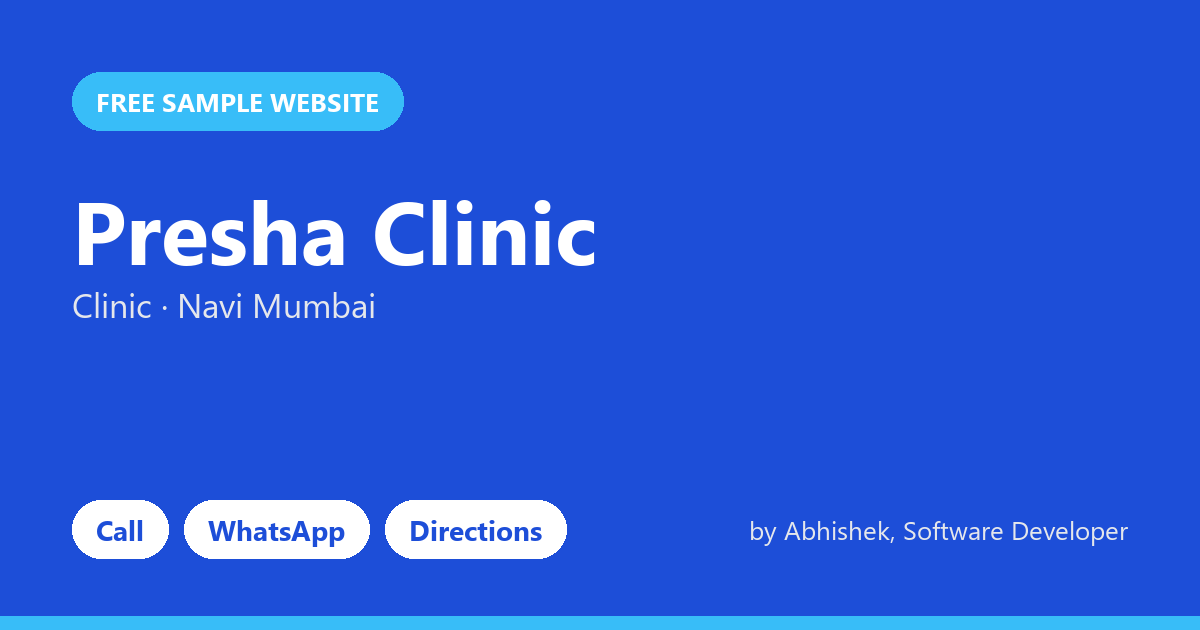
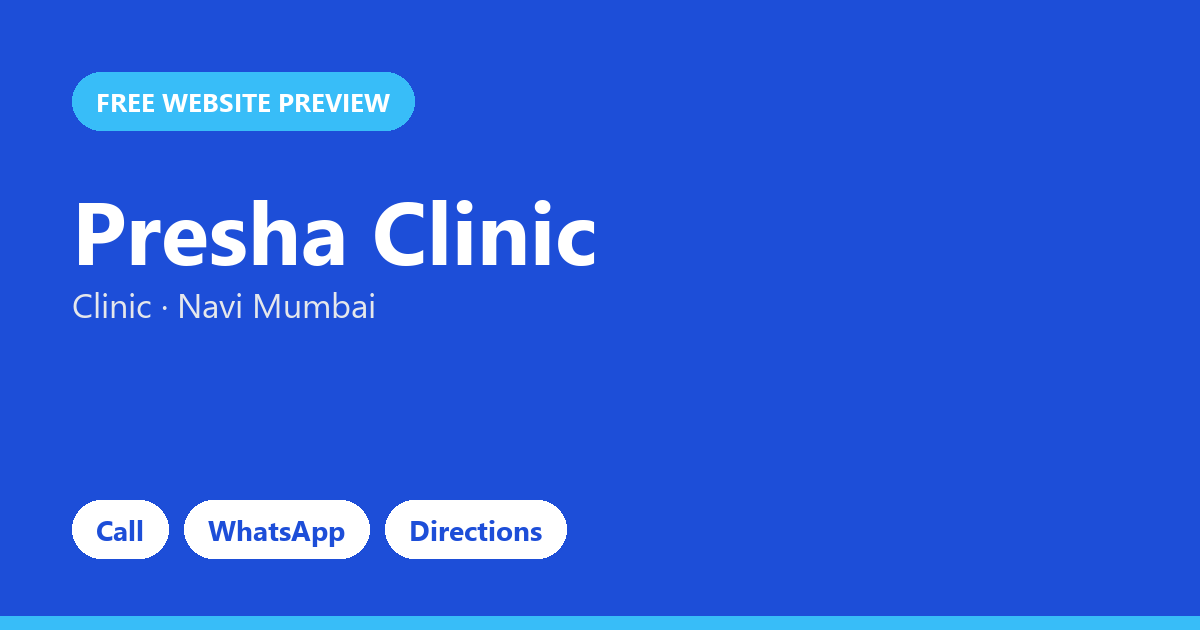
Previews: drop price and personal name (96-100 of 139)

Changed region(s): [[0.6167, 0.8143, 0.925, 0.8746], [0.1233, 0.1206, 0.37, 0.2111]]

diff --git a/p/prima-dental-saltlake-kolkata-6708/index.html b/p/prima-dental-saltlake-kolkata-6708/index.html
@@ -6,8 +6,8 @@
 <title>Prima Dental Saltlake | Dental clinic in Kolkata</title>
 <meta name="description" content="Gentle, modern dental care for the whole family. Book your visit in under a minute.">
 <meta property="og:type" content="website">
-<meta property="og:title" content="Prima Dental Saltlake · Free sample website">
-<meta property="og:description" content="Made by Abhishek, Software Developer. Call, WhatsApp and directions in one tap.">
+<meta property="og:title" content="Prima Dental Saltlake · Free website preview">
+<meta property="og:description" content="Call, WhatsApp and directions in one tap.">
 <meta property="og:url" content="https://roguestar03.github.io/p/prima-dental-saltlake-kolkata-6708/">
 <meta property="og:image" content="https://roguestar03.github.io/p/prima-dental-saltlake-kolkata-6708/og.png">
 <meta property="og:image:width" content="1200">
@@ -167,7 +167,7 @@ footer{padding:40px 0 110px;border-top:1px solid var(--line);font-size:14px;colo
 </style>
 </head>
 <body>
-<div class="pv">Sample website made for <b>Prima Dental Saltlake</b> by <b>Abhishek</b>. Not the official website yet. <b>Like it?</b> Make it yours for ₹1,999. Contact: <a href="mailto:abhishekkayasth87@gmail.com">abhishekkayasth87@gmail.com</a> · <a href="https://www.linkedin.com/in/abhishek-kayasth-050250239/" target="_blank" rel="noopener">LinkedIn</a></div>
+<div class="pv">Free website preview for <b>Prima Dental Saltlake</b>. Not the official website yet. <b>Like it?</b> Just reply to our message. Contact: <a href="mailto:abhishekkayasth87@gmail.com">abhishekkayasth87@gmail.com</a> · <a href="https://www.linkedin.com/in/abhishek-kayasth-050250239/" target="_blank" rel="noopener">LinkedIn</a></div>
 <header>
   <div class="wrap nav">
     <a href="#top" class="logo"><span class="mark">PD</span><span class="t">Prima Dental Saltlake</span></a>
@@ -259,7 +259,7 @@ footer{padding:40px 0 110px;border-top:1px solid var(--line);font-size:14px;colo
       <div><b style="color:var(--ink)">Prima Dental Saltlake</b><br>GD-97, Kolkata<p class="soc"><a href="https://www.facebook.com/124931640592599" target="_blank" rel="noopener">Facebook</a></p></div>
       <div>+91 98362 56708<br>&copy; 2026 Prima Dental Saltlake</div>
     </div>
-    <p class="credit">Sample website by Abhishek, Software Developer · <a href="mailto:abhishekkayasth87@gmail.com">abhishekkayasth87@gmail.com</a> · <a href="https://www.linkedin.com/in/abhishek-kayasth-050250239/" target="_blank" rel="noopener">LinkedIn</a></p>
+    <p class="credit">Website preview · <a href="mailto:abhishekkayasth87@gmail.com">abhishekkayasth87@gmail.com</a> · <a href="https://www.linkedin.com/in/abhishek-kayasth-050250239/" target="_blank" rel="noopener">LinkedIn</a></p>
   </div>
 </footer>
 

diff --git a/p/prime-strength-hyderabad-8887/index.html b/p/prime-strength-hyderabad-8887/index.html
@@ -6,8 +6,8 @@
 <title>Prime Strength | Gym &amp; fitness in Hyderabad</title>
 <meta name="description" content="Train harder, get stronger. Modern equipment, expert trainers and a motivating crowd.">
 <meta property="og:type" content="website">
-<meta property="og:title" content="Prime Strength · Free sample website">
-<meta property="og:description" content="Made by Abhishek, Software Developer. Call, WhatsApp and directions in one tap.">
+<meta property="og:title" content="Prime Strength · Free website preview">
+<meta property="og:description" content="Call, WhatsApp and directions in one tap.">
 <meta property="og:url" content="https://roguestar03.github.io/p/prime-strength-hyderabad-8887/">
 <meta property="og:image" content="https://roguestar03.github.io/p/prime-strength-hyderabad-8887/og.png">
 <meta property="og:image:width" content="1200">
@@ -167,7 +167,7 @@ footer{padding:40px 0 110px;border-top:1px solid var(--line);font-size:14px;colo
 </style>
 </head>
 <body>
-<div class="pv">Sample website made for <b>Prime Strength</b> by <b>Abhishek</b>. Not the official website yet. <b>Like it?</b> Make it yours for ₹1,999. Contact: <a href="mailto:abhishekkayasth87@gmail.com">abhishekkayasth87@gmail.com</a> · <a href="https://www.linkedin.com/in/abhishek-kayasth-050250239/" target="_blank" rel="noopener">LinkedIn</a></div>
+<div class="pv">Free website preview for <b>Prime Strength</b>. Not the official website yet. <b>Like it?</b> Just reply to our message. Contact: <a href="mailto:abhishekkayasth87@gmail.com">abhishekkayasth87@gmail.com</a> · <a href="https://www.linkedin.com/in/abhishek-kayasth-050250239/" target="_blank" rel="noopener">LinkedIn</a></div>
 <header>
   <div class="wrap nav">
     <a href="#top" class="logo"><span class="mark">PS</span><span class="t">Prime Strength</span></a>
@@ -259,7 +259,7 @@ footer{padding:40px 0 110px;border-top:1px solid var(--line);font-size:14px;colo
       <div><b style="color:var(--ink)">Prime Strength</b><br>SY No -103, Gandi Maisamma Mandal, B Situated, at, Hyderabad<p class="soc"><a href="https://www.facebook.com/321043374417792" target="_blank" rel="noopener">Facebook</a></p></div>
       <div>+91 80080 38887<br>&copy; 2026 Prime Strength</div>
     </div>
-    <p class="credit">Sample website by Abhishek, Software Developer · <a href="mailto:abhishekkayasth87@gmail.com">abhishekkayasth87@gmail.com</a> · <a href="https://www.linkedin.com/in/abhishek-kayasth-050250239/" target="_blank" rel="noopener">LinkedIn</a></p>
+    <p class="credit">Website preview · <a href="mailto:abhishekkayasth87@gmail.com">abhishekkayasth87@gmail.com</a> · <a href="https://www.linkedin.com/in/abhishek-kayasth-050250239/" target="_blank" rel="noopener">LinkedIn</a></p>
   </div>
 </footer>
 

diff --git a/p/pride-dental-clinic-pune-0129/index.html b/p/pride-dental-clinic-pune-0129/index.html
@@ -6,8 +6,8 @@
 <title>Pride Dental Clinic | Dental clinic in Pune</title>
 <meta name="description" content="Gentle, modern dental care for the whole family. Book your visit in under a minute.">
 <meta property="og:type" content="website">
-<meta property="og:title" content="Pride Dental Clinic · Free sample website">
-<meta property="og:description" content="Made by Abhishek, Software Developer. Call, WhatsApp and directions in one tap.">
+<meta property="og:title" content="Pride Dental Clinic · Free website preview">
+<meta property="og:description" content="Call, WhatsApp and directions in one tap.">
 <meta property="og:url" content="https://roguestar03.github.io/p/pride-dental-clinic-pune-0129/">
 <meta property="og:image" content="https://roguestar03.github.io/p/pride-dental-clinic-pune-0129/og.png">
 <meta property="og:image:width" content="1200">
@@ -167,7 +167,7 @@ footer{padding:40px 0 110px;border-top:1px solid var(--line);font-size:14px;colo
 </style>
 </head>
 <body>
-<div class="pv">Sample website made for <b>Pride Dental Clinic</b> by <b>Abhishek</b>. Not the official website yet. <b>Like it?</b> Make it yours for ₹1,999. Contact: <a href="mailto:abhishekkayasth87@gmail.com">abhishekkayasth87@gmail.com</a> · <a href="https://www.linkedin.com/in/abhishek-kayasth-050250239/" target="_blank" rel="noopener">LinkedIn</a></div>
+<div class="pv">Free website preview for <b>Pride Dental Clinic</b>. Not the official website yet. <b>Like it?</b> Just reply to our message. Contact: <a href="mailto:abhishekkayasth87@gmail.com">abhishekkayasth87@gmail.com</a> · <a href="https://www.linkedin.com/in/abhishek-kayasth-050250239/" target="_blank" rel="noopener">LinkedIn</a></div>
 <header>
   <div class="wrap nav">
     <a href="#top" class="logo"><span class="mark">PD</span><span class="t">Pride Dental Clinic</span></a>
@@ -259,7 +259,7 @@ footer{padding:40px 0 110px;border-top:1px solid var(--line);font-size:14px;colo
       <div><b style="color:var(--ink)">Pride Dental Clinic</b><br>Pune<p class="soc"><a href="https://www.facebook.com/122655657421743" target="_blank" rel="noopener">Facebook</a></p></div>
       <div>+91 79720 60129<br>&copy; 2026 Pride Dental Clinic</div>
     </div>
-    <p class="credit">Sample website by Abhishek, Software Developer · <a href="mailto:abhishekkayasth87@gmail.com">abhishekkayasth87@gmail.com</a> · <a href="https://www.linkedin.com/in/abhishek-kayasth-050250239/" target="_blank" rel="noopener">LinkedIn</a></p>
+    <p class="credit">Website preview · <a href="mailto:abhishekkayasth87@gmail.com">abhishekkayasth87@gmail.com</a> · <a href="https://www.linkedin.com/in/abhishek-kayasth-050250239/" target="_blank" rel="noopener">LinkedIn</a></p>
   </div>
 </footer>
 

diff --git a/p/presha-clinic-navi-mumbai-8275/index.html b/p/presha-clinic-navi-mumbai-8275/index.html
@@ -6,8 +6,8 @@
 <title>Presha Clinic | Clinic in Navi Mumbai</title>
 <meta name="description" content="Trusted healthcare close to home. Consult, get treated and follow up with ease.">
 <meta property="og:type" content="website">
-<meta property="og:title" content="Presha Clinic · Free sample website">
-<meta property="og:description" content="Made by Abhishek, Software Developer. Call, WhatsApp and directions in one tap.">
+<meta property="og:title" content="Presha Clinic · Free website preview">
+<meta property="og:description" content="Call, WhatsApp and directions in one tap.">
 <meta property="og:url" content="https://roguestar03.github.io/p/presha-clinic-navi-mumbai-8275/">
 <meta property="og:image" content="https://roguestar03.github.io/p/presha-clinic-navi-mumbai-8275/og.png">
 <meta property="og:image:width" content="1200">
@@ -167,7 +167,7 @@ footer{padding:40px 0 110px;border-top:1px solid var(--line);font-size:14px;colo
 </style>
 </head>
 <body>
-<div class="pv">Sample website made for <b>Presha Clinic</b> by <b>Abhishek</b>. Not the official website yet. <b>Like it?</b> Make it yours for ₹1,999. Contact: <a href="mailto:abhishekkayasth87@gmail.com">abhishekkayasth87@gmail.com</a> · <a href="https://www.linkedin.com/in/abhishek-kayasth-050250239/" target="_blank" rel="noopener">LinkedIn</a></div>
+<div class="pv">Free website preview for <b>Presha Clinic</b>. Not the official website yet. <b>Like it?</b> Just reply to our message. Contact: <a href="mailto:abhishekkayasth87@gmail.com">abhishekkayasth87@gmail.com</a> · <a href="https://www.linkedin.com/in/abhishek-kayasth-050250239/" target="_blank" rel="noopener">LinkedIn</a></div>
 <header>
   <div class="wrap nav">
     <a href="#top" class="logo"><span class="mark">PC</span><span class="t">Presha Clinic</span></a>
@@ -259,7 +259,7 @@ footer{padding:40px 0 110px;border-top:1px solid var(--line);font-size:14px;colo
       <div><b style="color:var(--ink)">Presha Clinic</b><br>shop no.13, Prime Plaza, Balai Road, Navi Mumbai<p class="soc"><a href="https://www.facebook.com/406306706778456" target="_blank" rel="noopener">Facebook</a></p></div>
       <div>+91 88506 18275<br>&copy; 2026 Presha Clinic</div>
     </div>
-    <p class="credit">Sample website by Abhishek, Software Developer · <a href="mailto:abhishekkayasth87@gmail.com">abhishekkayasth87@gmail.com</a> · <a href="https://www.linkedin.com/in/abhishek-kayasth-050250239/" target="_blank" rel="noopener">LinkedIn</a></p>
+    <p class="credit">Website preview · <a href="mailto:abhishekkayasth87@gmail.com">abhishekkayasth87@gmail.com</a> · <a href="https://www.linkedin.com/in/abhishek-kayasth-050250239/" target="_blank" rel="noopener">LinkedIn</a></p>
   </div>
 </footer>
 

diff --git a/p/pure-dental-visakhapatnam-0629/index.html b/p/pure-dental-visakhapatnam-0629/index.html
@@ -6,8 +6,8 @@
 <title>Pure Dental | Dental clinic in Visakhapatnam</title>
 <meta name="description" content="Gentle, modern dental care for the whole family. Book your visit in under a minute.">
 <meta property="og:type" content="website">
-<meta property="og:title" content="Pure Dental · Free sample website">
-<meta property="og:description" content="Made by Abhishek, Software Developer. Call, WhatsApp and directions in one tap.">
+<meta property="og:title" content="Pure Dental · Free website preview">
+<meta property="og:description" content="Call, WhatsApp and directions in one tap.">
 <meta property="og:url" content="https://roguestar03.github.io/p/pure-dental-visakhapatnam-0629/">
 <meta property="og:image" content="https://roguestar03.github.io/p/pure-dental-visakhapatnam-0629/og.png">
 <meta property="og:image:width" content="1200">
@@ -167,7 +167,7 @@ footer{padding:40px 0 110px;border-top:1px solid var(--line);font-size:14px;colo
 </style>
 </head>
 <body>
-<div class="pv">Sample website made for <b>Pure Dental</b> by <b>Abhishek</b>. Not the official website yet. <b>Like it?</b> Make it yours for ₹1,999. Contact: <a href="mailto:abhishekkayasth87@gmail.com">abhishekkayasth87@gmail.com</a> · <a href="https://www.linkedin.com/in/abhishek-kayasth-050250239/" target="_blank" rel="noopener">LinkedIn</a></div>
+<div class="pv">Free website preview for <b>Pure Dental</b>. Not the official website yet. <b>Like it?</b> Just reply to our message. Contact: <a href="mailto:abhishekkayasth87@gmail.com">abhishekkayasth87@gmail.com</a> · <a href="https://www.linkedin.com/in/abhishek-kayasth-050250239/" target="_blank" rel="noopener">LinkedIn</a></div>
 <header>
   <div class="wrap nav">
     <a href="#top" class="logo"><span class="mark">PD</span><span class="t">Pure Dental</span></a>
@@ -259,7 +259,7 @@ footer{padding:40px 0 110px;border-top:1px solid var(--line);font-size:14px;colo
       <div><b style="color:var(--ink)">Pure Dental</b><br>1st floor, 57-1-78, Bowdra Ring Rd, Visakhapatnam<p class="soc"><a href="https://www.facebook.com/313069012456092" target="_blank" rel="noopener">Facebook</a></p></div>
       <div>+91 76590 00629<br>&copy; 2026 Pure Dental</div>
     </div>
-    <p class="credit">Sample website by Abhishek, Software Developer · <a href="mailto:abhishekkayasth87@gmail.com">abhishekkayasth87@gmail.com</a> · <a href="https://www.linkedin.com/in/abhishek-kayasth-050250239/" target="_blank" rel="noopener">LinkedIn</a></p>
+    <p class="credit">Website preview · <a href="mailto:abhishekkayasth87@gmail.com">abhishekkayasth87@gmail.com</a> · <a href="https://www.linkedin.com/in/abhishek-kayasth-050250239/" target="_blank" rel="noopener">LinkedIn</a></p>
   </div>
 </footer>
 
